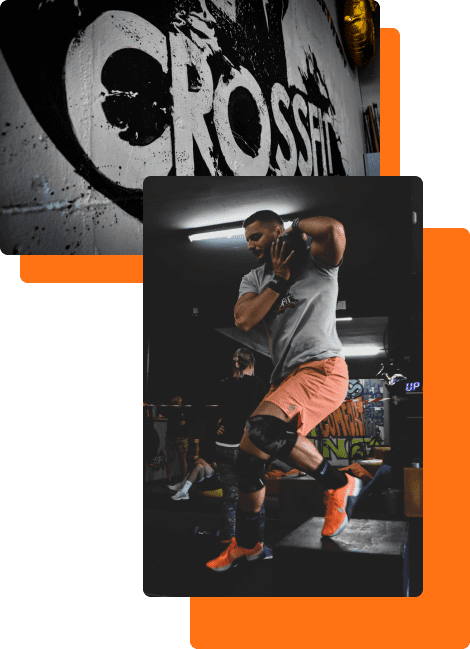
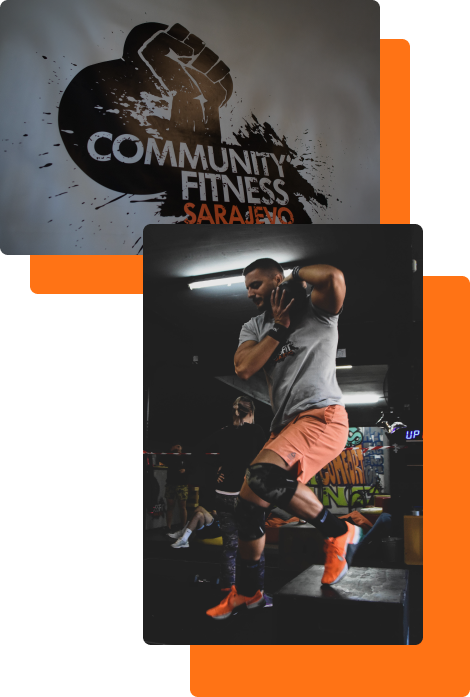
new update

diff --git a/index.html b/index.html
@@ -65,7 +65,7 @@
           <div class="links-container">
             <a href="#about" class="link">ABOUT</a>
             <a href="#timetable" class="link">TIMETABLE</a>
-            <a href="#footer" class="link contact">CONTACT US</a>
+            <a href="#contact-us" class="link contact">CONTACT US</a>
           </div>
           <div class="nav-menu-button">
             <div class="first"></div>
@@ -122,14 +122,14 @@
           <h1 class="title about-title">About us</h1>
           <div class="content-cont">
             <p class="about-text reveal">
-              Welcome to CrossFit Sarajevo, where fitness meets community. Our
-              CrossFit workouts challenge all levels, helping you achieve your
-              best, whether you're a beginner or a seasoned athlete. Our
-              certified coaches provide personalized guidance in a supportive
-              environment that pushes you to your limits and celebrates every
-              success. At CrossFit Sarajevo, you’re more than just a
-              member—you’re part of a family dedicated to your growth, strength,
-              and confidence.
+              Welcome to Community Fitness Sarajevo, where training meets
+              community. Our workouts are designed for all levels, helping you
+              progress and reach your goals, whether you're just starting or
+              already experienced. Our dedicated coaches provide expert guidance
+              in a supportive environment that challenges you while celebrating
+              every achievement. At Community Fitness Sarajevo, you're more than
+              just a member—you’re part of a team committed to your growth,
+              strength, and confidence.
             </p>
             <img
               class="about-image"
@@ -189,8 +189,8 @@
           <div class="coach-cont">
             <div class="coach-image second"></div>
             <div class="coach-preferences">
-              <h1 class="coach-position">Owner</h1>
-              <h1 class="coach-name">Amila Avdukić</h1>
+              <h1 class="coach-position">Amila Bolonier</h1>
+              <h1 class="coach-name">Owner</h1>
               <div class="coach-qualifications-list">
                 <div class="coach-qualification-cont">
                   <p class="text">Group class coaching experience since 2015</p>
@@ -212,8 +212,8 @@
           <div class="coach-cont">
             <div class="coach-image first"></div>
             <div class="coach-preferences">
-              <h1 class="coach-position">Headcoach / Co-Owner</h1>
-              <h1 class="coach-name">Christopher Balonier</h1>
+              <h1 class="coach-position">Christopher Balonier</h1>
+              <h1 class="coach-name">Headcoach / Co-Owner</h1>
               <div class="coach-qualifications-list">
                 <div class="coach-qualification-cont">
                   <p class="text">CrossFit Level 2 Trainer</p>
@@ -233,6 +233,73 @@
                 </div>
                 <div class="coach-qualification-cont">
                   <p class="text">Competitive athlete since 2021</p>
+                  <div class="icon"></div>
+                </div>
+              </div>
+            </div>
+          </div>
+          <div class="coach-cont">
+            <div class="coach-image fourth"></div>
+            <div class="coach-preferences">
+              <h1 class="coach-position">Irma Kurtović</h1>
+              <h1 class="coach-name">Coach</h1>
+              <div class="coach-qualifications-list">
+                <div class="coach-qualification-cont">
+                  <p class="text">Coaching experience since 2016</p>
+                  <div class="icon"></div>
+                </div>
+              </div>
+            </div>
+          </div>
+          <div class="coach-cont">
+            <div class="coach-image third"></div>
+            <div class="coach-preferences">
+              <h1 class="coach-position">Zerin Kobilić</h1>
+              <h1 class="coach-name">Coach</h1>
+              <div class="coach-qualifications-list">
+                <div class="coach-qualification-cont">
+                  <p class="text">Bachelor of Sports and Physical Education</p>
+                  <div class="icon"></div>
+                </div>
+                <div class="coach-qualification-cont">
+                  <p class="text">Coaching experience since 2019</p>
+                  <div class="icon"></div>
+                </div>
+                <div class="coach-qualification-cont">
+                  <p class="text">
+                    Country Weightlifting Champion 2022 (-89 kg category)
+                  </p>
+                  <div class="icon"></div>
+                </div>
+                <div class="coach-qualification-cont">
+                  <p class="text">
+                    Senior Snatch Record holder 121 kg (-89 kg category)
+                  </p>
+                  <div class="icon"></div>
+                </div>
+                <div class="coach-qualification-cont">
+                  <p class="text">
+                    U21 Student record holder in Snatch 85 kg and Clean &amp;
+                    Jerk 105 kg (-81 kg category)
+                  </p>
+                  <div class="icon"></div>
+                </div>
+              </div>
+            </div>
+          </div>
+
+          <div class="coach-cont">
+            <div class="coach-image fifth"></div>
+            <div class="coach-preferences">
+              <h1 class="coach-position">Jasmin</h1>
+              <h1 class="coach-name">Coach</h1>
+              <div class="coach-qualifications-list">
+                <div class="coach-qualification-cont">
+                  <p class="text">Master of Sports and Physical Education</p>
+                  <div class="icon"></div>
+                </div>
+                <div class="coach-qualification-cont">
+                  <p class="text">Coaching experience since 2016</p>
                   <div class="icon"></div>
                 </div>
               </div>
@@ -377,7 +444,7 @@
       </div>
       <div id="promotion" class="section promotion-section">
         <div class="promotion-title-container">
-          <h1 class="promotion-title">First Training on Us! Join for Free.</h1>
+          <h1 class="promotion-title">First Session on Us! Join for Free.</h1>
         </div>
         <img src="./content/promotion-arrow.png" alt="arrow" />
       </div>
@@ -445,8 +512,12 @@
                 <div class="content-section-footer">
                   <h1 class="content-title">Contact</h1>
                   <div class="links">
-                    <a href="mailto:info@sarajevofitness.com">Email</a>
-                    <a href="tel:+387 61 691 483">Phone </a>
+                    <a href="mailto:info@sarajevofitness.com"
+                      >info@sarajevofitness.com</a
+                    >
+
+                    <a href="tel:+387 61 691 483">+387 61 691 483 (Amila)</a>
+                    <a href="tel:+387 61 565 590">+387 61 565 590 (Chris)</a>
                   </div>
                 </div>
               </div>

diff --git a/style/our-team.css b/style/our-team.css
@@ -30,6 +30,16 @@
 .coach-image.second {
   background-image: url("../content/Coach_Ame.jpg");
 }
+.coach-image.third {
+  background-image: url("../content/Zerin.jpg");
+}
+.coach-image.fourth {
+  background-image: url("../content/Irma.jpg");
+}
+.coach-image.fifth {
+  background-image: url("../content/Jasmin.webp");
+}
+
 .coach-preferences {
   padding-left: 3rem;
   width: 100%;
@@ -142,6 +152,9 @@
     width: 100%;
     height: 300px;
     margin-top: 3rem;
+  }
+  .coach-image.fifth {
+    display: none;
   }
 }
 
